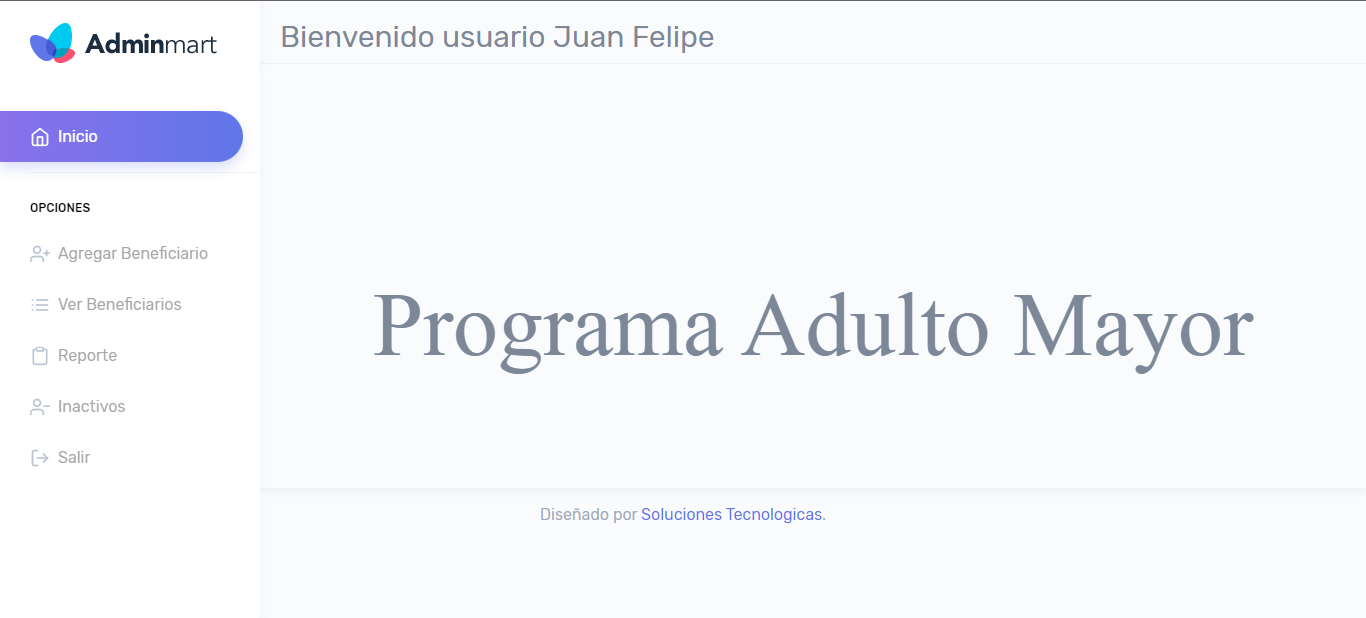
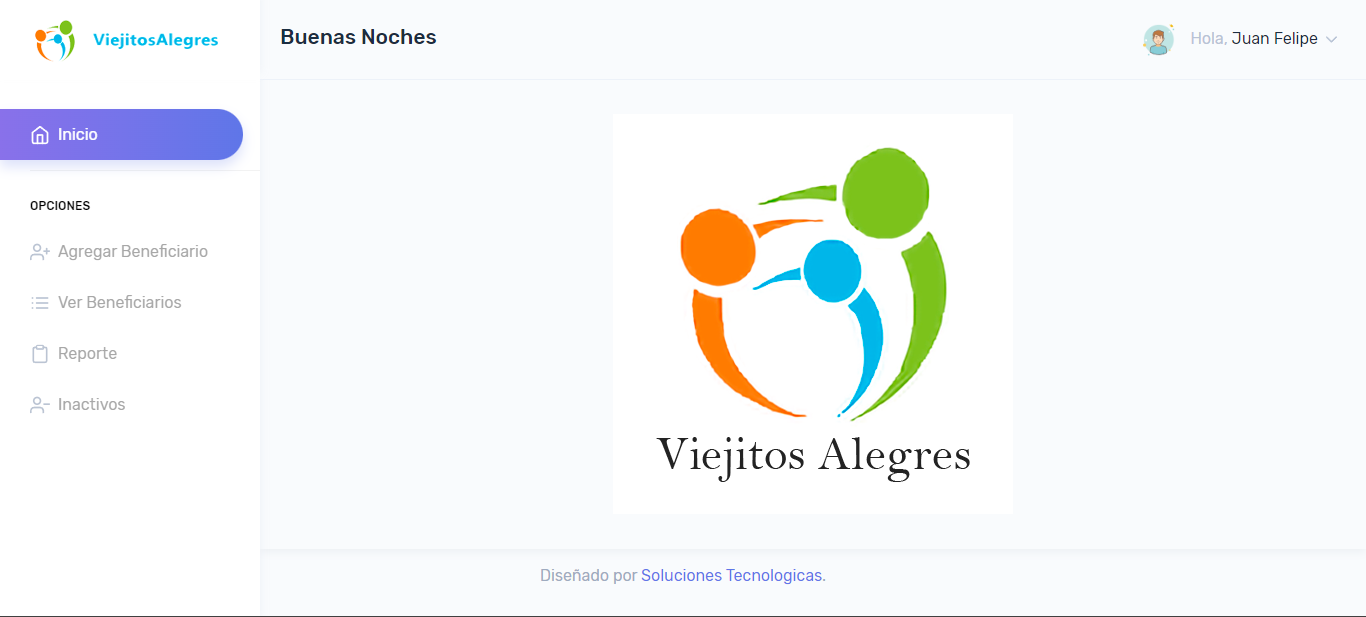
Mejora de skills y agregacion de proyecto a portafolio

diff --git a/index.html b/index.html
@@ -156,112 +156,47 @@
                 <div class="col">
                     <h3>Technical Skills</h3>
                     <div class="skill">
-                        <span>Javascript</span>
-                        <div class="barra-skill">
-                            <div class="progreso">
-                                <span>60%</span>
-                            </div>
-                        </div>
+                        <span>Javascript</span>                        
                     </div>
                     <div class="skill">
-                        <span>HTML & CSS</span>
-                        <div class="barra-skill">
-                            <div class="progreso">
-                                <span>80%</span>
-                            </div>
-                        </div>
+                        <span>HTML & CSS</span>                        
                     </div>
                     <div class="skill">
-                        <span>Vue</span>
-                        <div class="barra-skill">
-                            <div class="progreso">
-                                <span>70%</span>
-                            </div>
-                        </div>
+                        <span>Vue</span>                        
                     </div>
                     <div class="skill">
-                        <span>React</span>
-                        <div class="barra-skill">
-                            <div class="progreso">
-                                <span>70%</span>
-                            </div>
-                        </div>
+                        <span>React</span>                        
                     </div>
                     <div class="skill">
-                        <span>Java</span>
-                        <div class="barra-skill">
-                            <div class="progreso">
-                                <span>90%</span>
-                            </div>
-                        </div>
+                        <span>Java</span>                    
                     </div>
                     <div class="skill">
-                        <span>Php</span>
-                        <div class="barra-skill">
-                            <div class="progreso">
-                                <span>90%</span>
-                            </div>
-                        </div>
+                        <span>Php</span>                        
                     </div>
                     <div class="skill">
-                        <span>Laravel</span>
-                        <div class="barra-skill">
-                            <div class="progreso">
-                                <span>70%</span>
-                            </div>
-                        </div>
+                        <span>Laravel</span>                        
                     </div>
                     <div class="skill">
-                        <span>Bootstrap</span>
-                        <div class="barra-skill">
-                            <div class="progreso">
-                                <span>75%</span>
-                            </div>
-                        </div>
+                        <span>Bootstrap</span>                        
                     </div>
                 </div>
                 <!-- Professional Skills -->
                 <div class="col">
                     <h3>Professional Skills</h3>
                     <div class="skill">
-                        <span>Comunicación</span>
-                        <div class="barra-skill">
-                            <div class="progreso">
-                                <span>90%</span>
-                            </div>
-                        </div>
+                        <span>Comunicación</span>                        
                     </div>
                     <div class="skill">
-                        <span>Trabajo en Equipo</span>
-                        <div class="barra-skill">
-                            <div class="progreso">
-                                <span>85%</span>
-                            </div>
-                        </div>
+                        <span>Trabajo en Equipo</span>                        
                     </div>
                     <div class="skill">
-                        <span>Creatividad</span>
-                        <div class="barra-skill">
-                            <div class="progreso">
-                                <span>60%</span>
-                            </div>
-                        </div>
+                        <span>Creatividad</span>                        
                     </div>
                     <div class="skill">
-                        <span>Dedicación</span>
-                        <div class="barra-skill">
-                            <div class="progreso">
-                                <span>85%</span>
-                            </div>
-                        </div>
+                        <span>Dedicación</span>                        
                     </div>
                     <div class="skill">
-                        <span>Adaptacion al cambio</span>
-                        <div class="barra-skill">
-                            <div class="progreso">
-                                <span>80%</span>
-                            </div>
-                        </div>
+                        <span>Adaptacion al cambio</span>                        
                     </div>
                 </div>
             </div>
@@ -298,6 +233,14 @@
                         <h4>Cursos de programacion</h4>
                         <span class="casa">Platzi</span>
                         <span class="fecha">2022</span>
+                        <div class="conectori">
+                            <div class="circuloi"></div>
+                        </div>
+                    </div>
+                    <div class="item izq">
+                        <h4>One Oracle Alura</h4>
+                        <span class="casa">Alura</span>
+                        <span class="fecha">2023</span>
                         <div class="conectori">
                             <div class="circuloi"></div>
                         </div>
@@ -342,8 +285,8 @@
                 <div class="proyecto">
                     <img src="img/p2.png" alt="" />
                     <div class="overlay">
-                        <h3>Adulto Mayor</h3>
-                        <a href="https://github.com/Destroy4112/Fundacion-php" target="_blank">Ir <i
+                        <h3>Viejitos Alegres</h3>
+                        <a href="https://github.com/Destroy4112/viejitos-alegres" target="_blank">Ir <i
                                 class="fa fa-arrow-right"></i></a>
                     </div>
                 </div>
@@ -352,6 +295,14 @@
                     <div class="overlay">
                         <h3>Consultores</h3>
                         <a href="https://github.com/Destroy4112/Consultores-php" target="_blank">Ir <i
+                                class="fa fa-arrow-right"></i></a>
+                    </div>
+                </div>
+                <div class="proyecto">
+                    <img src="img/p4.png" alt="" />
+                    <div class="overlay">
+                        <h3>Encriptador</h3>
+                        <a href="https://destroy4112.github.io/Encriptador-Alura/" target="_blank">Ir <i
                                 class="fa fa-arrow-right"></i></a>
                     </div>
                 </div>

diff --git a/style.css b/style.css
@@ -247,153 +247,15 @@ html{
     margin-bottom: 25px;
 }
 .skills .skill > span{
-    font-weight: bold;
     display: block;
     margin-bottom: 10px;
 }
-.skills .skill .barra-skill{
-    height: 8px;
-    width: 80%;
-    background-color: #131517;
-    position: relative;
-    margin-bottom: 30px;
-}
-.skills .skill .progreso{
-    background-color: #1CB698;
-    position: absolute;
-    top: 0;
-    left: 0;
-    height: 8px;
-}
-.skills .skill .barra-skill span{
-    position: absolute;
-    height: 40px;
-    width: 40px;
-    background-color: #1CB698;
-    border-radius: 50px;
-    line-height: 40px;
-    text-align: center;
-    top: -17px;
-    right: -15px;
-    font-size: 14px;
-}
-/* Estas clases se agregaran dinamicamente mediante javascript */
-.skills .skill .javascript{
-    width: 0%;
-    animation: 2s javascript forwards;
-}
-@keyframes javascript {
-    0%{width: 0%;}
-    100%{width: 60%;}
+
+.skills .skill > span::before {
+    content: "★";
+    margin-right: 10px;
 }
 
-.skills .skill .htmlcss{
-    width: 0%;
-    animation: 2s htmlcss forwards;
-}
-@keyframes htmlcss {
-    0%{width: 0%;}
-    100%{width: 85%;}
-}
-
-.skills .skill .vue{
-    width: 0%;
-    animation: 2s vue forwards;
-}
-@keyframes vue {
-    0%{width: 0%;}
-    100%{width: 70%;}
-}
-
-.skills .skill .react{
-    width: 0%;
-    animation: 2s react forwards;
-}
-@keyframes react {
-    0%{width: 0%;}
-    100%{width: 70%;}
-}
-
-.skills .skill .java{
-    width: 0%;
-    animation: 2s java forwards;
-}
-@keyframes java {
-    0%{width: 0%;}
-    100%{width: 90%;}
-}
-
-.skills .skill .php{
-    width: 0%;
-    animation: 2s php forwards;
-}
-@keyframes php {
-    0%{width: 0%;}
-    100%{width: 90%;}
-}
-
-.skills .skill .laravel{
-    width: 0%;
-    animation: 2s laravel forwards;
-}
-@keyframes laravel {
-    0%{width: 0%;}
-    100%{width: 70%;}
-}
-
-.skills .skill .bootstrap{
-    width: 0%;
-    animation: 2s bootstrap forwards;
-}
-@keyframes bootstrap {
-    0%{width: 0%;}
-    100%{width: 75%;}
-}
-
-.skills .skill .comunicacion{
-    width: 0%;
-    animation: 2s comunicacion forwards;
-}
-@keyframes comunicacion {
-    0%{width: 0%;}
-    100%{width: 90%;}
-}
-
-.skills .skill .trabajo{
-    width: 0%;
-    animation: 2s trabajo forwards;
-}
-@keyframes trabajo {
-    0%{width: 0%;}
-    100%{width: 85%;}
-}
-
-.skills .skill .creatividad{
-    width: 0%;
-    animation: 2s creatividad forwards;
-}
-@keyframes creatividad {
-    0%{width: 0%;}
-    100%{width: 60%;}
-}
-
-.skills .skill .dedicacion{
-    width: 0%;
-    animation: 2s dedicacion forwards;
-}
-@keyframes dedicacion {
-    0%{width: 0%;}
-    100%{width: 80%;}
-}
-
-.skills .skill .proyect{
-    width: 0%;
-    animation: 2s proyect forwards;
-}
-@keyframes proyect {
-    0%{width: 0%;}
-    100%{width: 80%;}
-}
 /* SECCION CURRICULUM */
 .curriculum{
     background-color: #1e2326;
